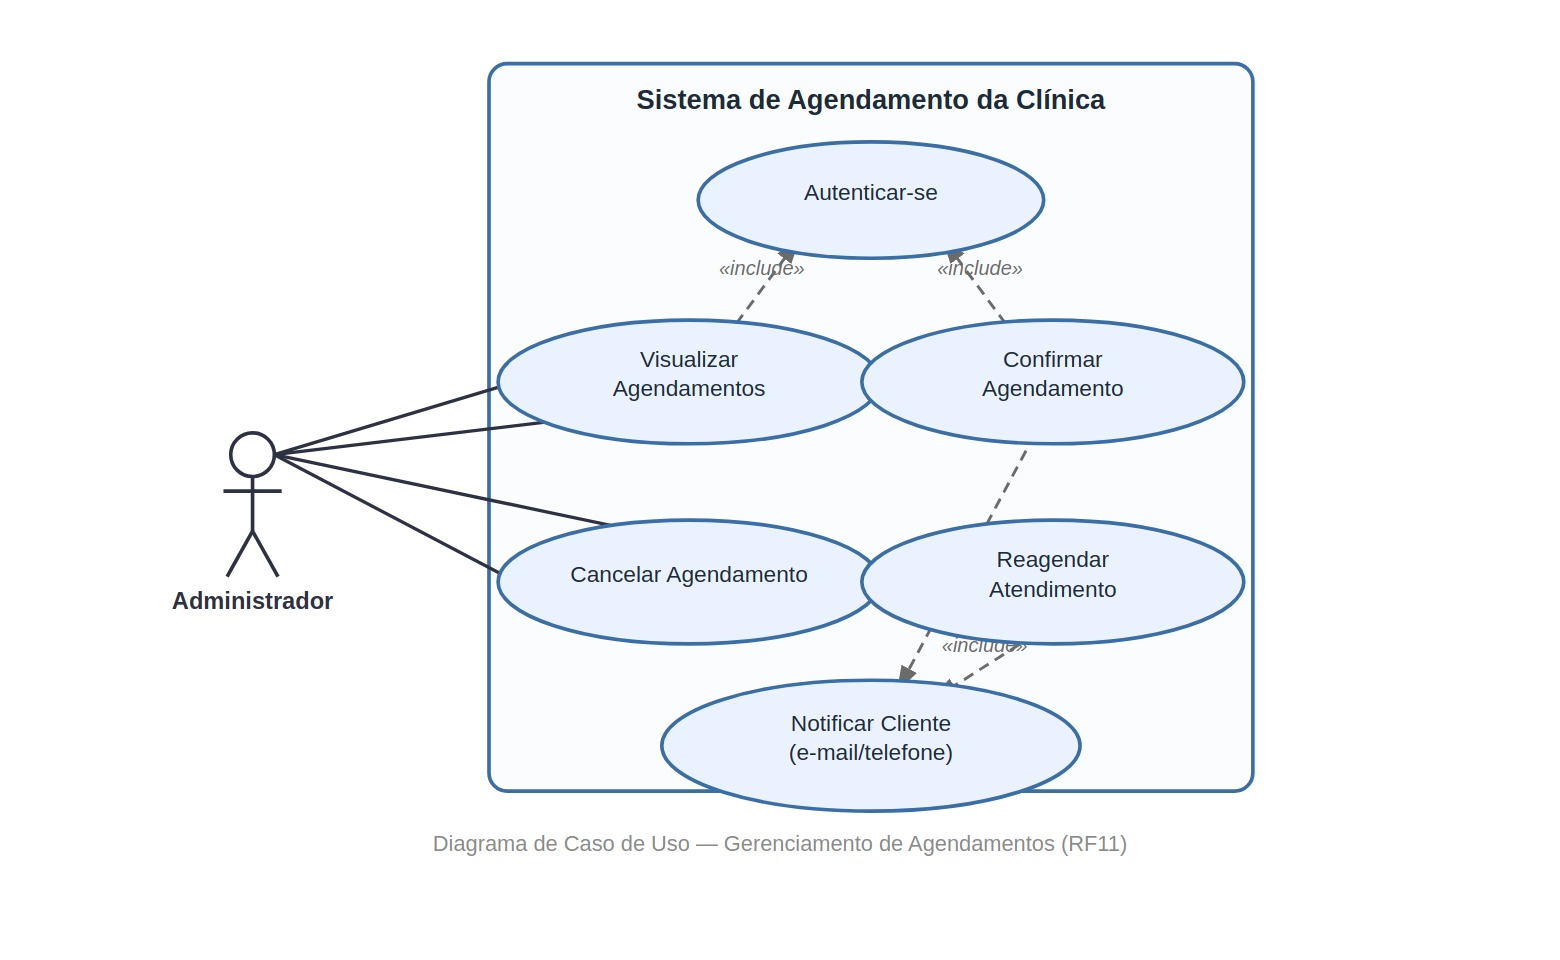
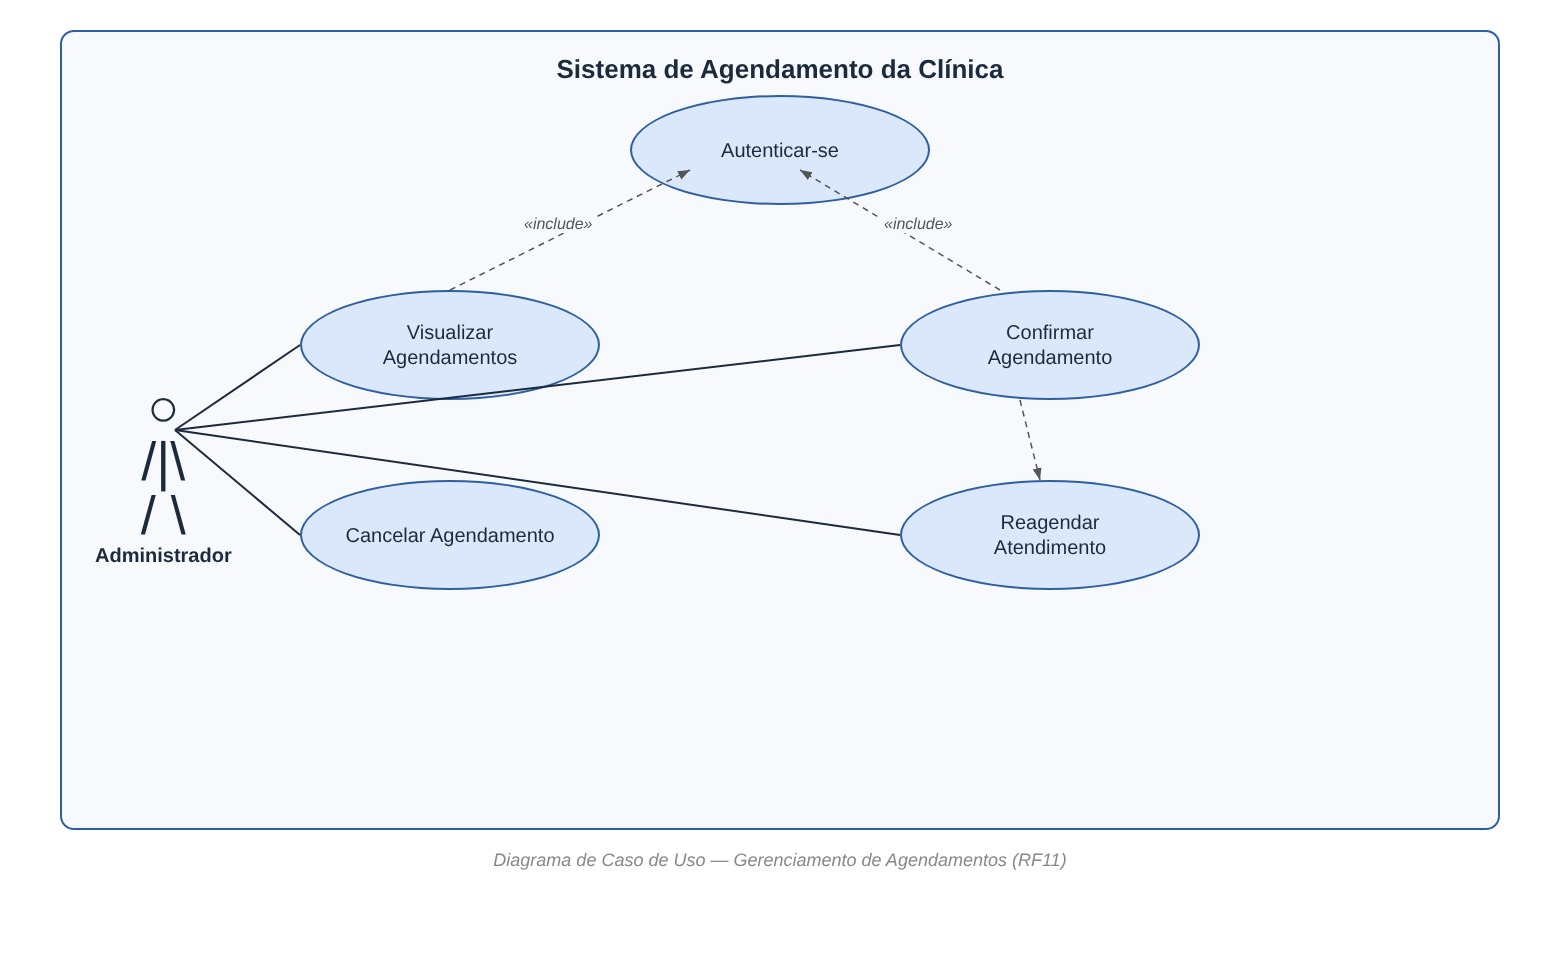
remove prontuario e notificacao do escopo

diff --git a/index.html b/index.html
@@ -197,7 +197,7 @@
   .empty-state{ padding:50px 20px; text-align:center; color:var(--muted); }
   .empty-state svg{ width:36px; height:36px; color:var(--muted-soft); margin-bottom:10px; }
 
-  /* ---------- prontuário / cadastro ---------- */
+  /* ---------- cadastro de paciente ---------- */
   .back-link{ display:inline-flex; align-items:center; gap:6px; color:var(--muted); text-decoration:none; font-size:13px; margin-bottom:14px; background:none; border:none; padding:0; }
   .back-link:hover{ color:var(--primary-dark); }
   .back-link svg{ width:15px; height:15px; }
@@ -214,12 +214,6 @@
   .field textarea{ resize:vertical; min-height:70px; }
 
   .panel-actions{ padding:16px 20px; border-top:1px solid var(--border); display:flex; justify-content:flex-end; gap:10px; }
-
-  .historico-item{ padding:14px 20px; border-bottom:1px solid var(--border); display:flex; gap:16px; }
-  .historico-item:last-child{ border-bottom:none; }
-  .historico-item .h-data{ width:96px; flex-shrink:0; font-weight:600; color:var(--primary-dark); font-size:13px; }
-  .historico-item .h-body .h-serv{ font-weight:600; }
-  .historico-item .h-body .h-obs{ color:var(--muted); font-size:13px; margin-top:2px; }
 
   .alert-box{ display:flex; gap:10px; align-items:flex-start; background:var(--amber-tint); border:1px solid #E9D9B8; color:#5C4823; padding:12px 16px; border-radius:var(--radius-s); font-size:13px; margin:0 20px 18px 20px; }
   .alert-box svg{ width:17px; height:17px; flex-shrink:0; margin-top:1px; }
@@ -332,7 +326,7 @@
         <div class="card">
           <div class="label">Pacientes cadastrados</div>
           <div class="value" id="kpi-pacientes">0</div>
-          <div class="hint">com prontuário ativo</div>
+          <div class="hint">com agendamento registrado</div>
         </div>
         <div class="card">
           <div class="label">Aguardando confirmação</div>
@@ -406,8 +400,8 @@
             <tr>
               <th>Paciente</th>
               <th>Telefone</th>
+              <th>E-mail</th>
               <th>Última visita</th>
-              <th>Alergias</th>
             </tr>
           </thead>
           <tbody id="tabela-pacientes"></tbody>
@@ -441,8 +435,6 @@
           <div class="field"><label for="cf-nasc">Data de nascimento</label><input id="cf-nasc" type="date"></div>
           <div class="field"><label for="cf-tel">Telefone</label><input id="cf-tel" type="tel" placeholder="(47) 99999-0000"></div>
           <div class="field"><label for="cf-email">E-mail</label><input id="cf-email" type="email" placeholder="nome@email.com"></div>
-          <div class="field full"><label for="cf-alergias">Alergias / restrições</label><input id="cf-alergias" type="text" placeholder="Ex.: alergia a látex, pele sensível a ácidos"></div>
-          <div class="field full"><label for="cf-obs">Observações gerais</label><textarea id="cf-obs" placeholder="Histórico relevante, preferências, contraindicações..."></textarea></div>
         </div>
       </div>
     </section>
@@ -491,18 +483,7 @@
           <div class="field"><label for="pf-nasc">Data de nascimento</label><input id="pf-nasc" type="date"></div>
           <div class="field"><label for="pf-tel">Telefone</label><input id="pf-tel" type="tel" placeholder="(47) 99999-0000"></div>
           <div class="field"><label for="pf-email">E-mail</label><input id="pf-email" type="email" placeholder="nome@email.com"></div>
-          <div class="field full"><label for="pf-alergias">Alergias / restrições</label><input id="pf-alergias" type="text" placeholder="Ex.: alergia a látex, pele sensível a ácidos"></div>
-          <div class="field full"><label for="pf-obs">Observações gerais</label><textarea id="pf-obs" placeholder="Histórico relevante, preferências, contraindicações..."></textarea></div>
         </div>
-      </div>
-
-      <div class="panel" id="painel-historico">
-        <div class="panel-head">
-          <h2>Histórico de procedimentos</h2>
-          <button class="btn btn-ghost btn-sm" id="btn-add-historico">+ Adicionar procedimento</button>
-        </div>
-        <div id="lista-historico"></div>
-        <div class="empty-state" id="historico-vazio" style="display:none;">Nenhum procedimento registrado ainda.</div>
       </div>
     </section>
 
@@ -563,39 +544,6 @@
   </div>
 </div>
 
-<!-- ===================== MODAL: NOVO ITEM DO HISTÓRICO ===================== -->
-<div class="overlay" id="overlay-historico">
-  <div class="modal">
-    <div class="modal-head">
-      <h3>Adicionar procedimento ao prontuário</h3>
-      <button class="modal-close" data-close-modal="overlay-historico">
-        <svg viewBox="0 0 24 24" fill="none" stroke="currentColor" stroke-width="2"><path d="M6 6l12 12M18 6L6 18"/></svg>
-      </button>
-    </div>
-    <div class="modal-body">
-      <div class="field">
-        <label for="hi-data">Data</label>
-        <input type="date" id="hi-data">
-      </div>
-      <div class="field">
-        <label for="hi-servico">Procedimento realizado</label>
-        <select id="hi-servico"></select>
-      </div>
-      <div class="field">
-        <label for="hi-profissional">Profissional responsável</label>
-        <select id="hi-profissional"></select>
-      </div>
-      <div class="field">
-        <label for="hi-obs">Observações clínicas</label>
-        <textarea id="hi-obs" placeholder="Reação da pele, produtos utilizados, recomendações..."></textarea>
-      </div>
-    </div>
-    <div class="modal-foot">
-      <button class="btn btn-ghost" data-close-modal="overlay-historico">Cancelar</button>
-      <button class="btn btn-primary" id="btn-confirmar-historico">Adicionar ao prontuário</button>
-    </div>
-  </div>
-</div>
 
 <!-- ===================== MODAL: NOVO/EDITAR SERVIÇO ===================== -->
 <div class="overlay" id="overlay-servico">
@@ -670,25 +618,10 @@ function addDays(base, n){
 }
 
 let pacientes = [
-  { id: nextId(), nome:"Camila Duarte", nascimento:"1994-03-12", telefone:"(47) 99911-2233", email:"camila.duarte@email.com",
-    alergias:"Pele sensível a ácidos", obs:"Prefere horários no início da manhã.",
-    historico:[
-      {data: toISODate(addDays(hoje,-30)), servico:"Limpeza de pele", profissional:"Dra. Marina Alves", obs:"Boa resposta, sem irritação."},
-      {data: toISODate(addDays(hoje,-9)),  servico:"Peeling químico", profissional:"Dra. Marina Alves", obs:"Leve vermelhidão, orientada hidratação intensa por 3 dias."}
-    ]},
-  { id: nextId(), nome:"Fernanda Ribeiro", nascimento:"1989-07-22", telefone:"(47) 98822-1010", email:"fe.ribeiro@email.com",
-    alergias:"Nenhuma conhecida", obs:"",
-    historico:[
-      {data: toISODate(addDays(hoje,-60)), servico:"Botox", profissional:"Dra. Beatriz Souza", obs:"Aplicação em região frontal, retorno em 90 dias."}
-    ]},
-  { id: nextId(), nome:"Juliana Prado", nascimento:"1997-11-02", telefone:"(47) 99700-4455", email:"ju.prado@email.com",
-    alergias:"Alergia a látex", obs:"Usar luvas de nitrila em todos os procedimentos.",
-    historico:[] },
-  { id: nextId(), nome:"Patrícia Nunes", nascimento:"1985-05-30", telefone:"(47) 99333-7788", email:"patricia.nunes@email.com",
-    alergias:"Nenhuma conhecida", obs:"",
-    historico:[
-      {data: toISODate(addDays(hoje,-14)), servico:"Drenagem linfática", profissional:"Dr. Rafael Lima", obs:"Sessão 1 de 6, boa tolerância."}
-    ]}
+  { id: nextId(), nome:"Camila Duarte", nascimento:"1994-03-12", telefone:"(47) 99911-2233", email:"camila.duarte@email.com" },
+  { id: nextId(), nome:"Fernanda Ribeiro", nascimento:"1989-07-22", telefone:"(47) 98822-1010", email:"fe.ribeiro@email.com" },
+  { id: nextId(), nome:"Juliana Prado", nascimento:"1997-11-02", telefone:"(47) 99700-4455", email:"ju.prado@email.com" },
+  { id: nextId(), nome:"Patrícia Nunes", nascimento:"1985-05-30", telefone:"(47) 99333-7788", email:"patricia.nunes@email.com" }
 ];
 
 let agendamentos = [
@@ -942,12 +875,6 @@ function popularSelects(){
   servicos.forEach(s=> selServico.appendChild(new Option(s.nome, s.nome)));
   PROFISSIONAIS.forEach(p=> selProf.appendChild(new Option(p, p)));
   HORAS.forEach(h=> selHora.appendChild(new Option(h, h)));
-
-  const selServicoHi = document.getElementById("hi-servico");
-  const selProfHi = document.getElementById("hi-profissional");
-  selServicoHi.innerHTML = ""; selProfHi.innerHTML = "";
-  servicos.forEach(s=> selServicoHi.appendChild(new Option(s.nome, s.nome)));
-  PROFISSIONAIS.forEach(p=> selProfHi.appendChild(new Option(p, p)));
 }
 
 function abrirNovoAgendamento(dataISO, hora){
@@ -1023,8 +950,9 @@ function mudarStatus(id, status){
    PACIENTES — LISTA
    ========================================================= */
 function ultimaVisita(paciente){
-  if(paciente.historico.length===0) return "—";
-  const ultima = [...paciente.historico].sort((a,b)=> b.data.localeCompare(a.data))[0];
+  const relacionados = agendamentos.filter(a=> a.pacienteId===paciente.id);
+  if(relacionados.length===0) return "—";
+  const ultima = [...relacionados].sort((a,b)=> b.data.localeCompare(a.data))[0];
   return ultima.data.split("-").reverse().join("/");
 }
 
@@ -1052,8 +980,8 @@ function renderPacientes(filtro=""){
         </div>
       </td>
       <td class="muted">${p.telefone}</td>
+      <td class="muted">${p.email}</td>
       <td class="muted">${ultimaVisita(p)}</td>
-      <td class="muted">${p.alergias && p.alergias.toLowerCase()!=="nenhuma conhecida" ? p.alergias : "—"}</td>
     `;
     tr.addEventListener("click", ()=> abrirProntuario(p.id));
     corpo.appendChild(tr);
@@ -1069,7 +997,7 @@ document.getElementById("btn-voltar-pacientes-cadastro").addEventListener("click
    CADASTRO DE PACIENTE (tela simples, só dados pessoais)
    ========================================================= */
 function abrirCadastro(){
-  ["cf-nome","cf-nasc","cf-tel","cf-email","cf-alergias","cf-obs"].forEach(f=> document.getElementById(f).value = "");
+  ["cf-nome","cf-nasc","cf-tel","cf-email"].forEach(f=> document.getElementById(f).value = "");
   irPara("cadastro");
 }
 
@@ -1083,9 +1011,6 @@ document.getElementById("btn-salvar-cadastro").addEventListener("click", ()=>{
     nascimento: document.getElementById("cf-nasc").value,
     telefone: document.getElementById("cf-tel").value.trim(),
     email: document.getElementById("cf-email").value.trim(),
-    alergias: document.getElementById("cf-alergias").value.trim(),
-    obs: document.getElementById("cf-obs").value.trim(),
-    historico: []
   };
   pacientes.push(novo);
   mostrarToast("Paciente cadastrado");
@@ -1104,30 +1029,7 @@ function abrirProntuario(id){
   document.getElementById("pf-nasc").value = p.nascimento;
   document.getElementById("pf-tel").value = p.telefone;
   document.getElementById("pf-email").value = p.email;
-  document.getElementById("pf-alergias").value = p.alergias;
-  document.getElementById("pf-obs").value = p.obs;
-  renderHistorico(p);
   irPara("prontuario");
-}
-
-function renderHistorico(p){
-  const lista = document.getElementById("lista-historico");
-  const vazio = document.getElementById("historico-vazio");
-  const itens = [...p.historico].sort((a,b)=> b.data.localeCompare(a.data));
-  lista.innerHTML = "";
-  vazio.style.display = itens.length ? "none" : "block";
-  itens.forEach(h=>{
-    const div = document.createElement("div");
-    div.className = "historico-item";
-    div.innerHTML = `
-      <div class="h-data">${h.data.split("-").reverse().join("/")}</div>
-      <div class="h-body">
-        <div class="h-serv">${h.servico} · ${h.profissional}</div>
-        ${h.obs ? `<div class="h-obs">${h.obs}</div>` : ""}
-      </div>
-    `;
-    lista.appendChild(div);
-  });
 }
 
 document.getElementById("btn-salvar-paciente").addEventListener("click", ()=>{
@@ -1139,33 +1041,11 @@ document.getElementById("btn-salvar-paciente").addEventListener("click", ()=>{
     nascimento: document.getElementById("pf-nasc").value,
     telefone: document.getElementById("pf-tel").value.trim(),
     email: document.getElementById("pf-email").value.trim(),
-    alergias: document.getElementById("pf-alergias").value.trim(),
-    obs: document.getElementById("pf-obs").value.trim(),
   };
 
   const p = pacientes.find(x=>x.id===paginaAtualPacienteId);
   Object.assign(p, dados);
   mostrarToast("Dados atualizados");
-});
-
-document.getElementById("btn-add-historico").addEventListener("click", ()=>{
-  document.getElementById("hi-data").value = hojeISO;
-  abrirModal("overlay-historico");
-});
-
-document.getElementById("btn-confirmar-historico").addEventListener("click", ()=>{
-  if(paginaAtualPacienteId === null) return;
-  const p = pacientes.find(x=>x.id===paginaAtualPacienteId);
-  p.historico.push({
-    data: document.getElementById("hi-data").value || hojeISO,
-    servico: document.getElementById("hi-servico").value,
-    profissional: document.getElementById("hi-profissional").value,
-    obs: document.getElementById("hi-obs").value.trim()
-  });
-  document.getElementById("hi-obs").value = "";
-  fecharModal("overlay-historico");
-  renderHistorico(p);
-  mostrarToast("Procedimento adicionado ao prontuário");
 });
 
 /* =========================================================

diff --git a/README.md b/README.md
@@ -66,7 +66,7 @@ O protótipo é estático (HTML/CSS/JS puro, sem dependências) e está dividido
 - **Pacientes** — lista com busca por nome/telefone
 - **Serviços** — cadastro, edição e remoção de procedimentos e preços, refletidos na lista usada pelos formulários de agendamento (RF10)
 - **Cadastro** — formulário simples para registrar um novo paciente (dados pessoais)
-- **Registro do paciente** — dados pessoais editáveis + histórico de procedimentos
+- **Registro do paciente** — dados pessoais editáveis (nome, telefone, e-mail)
 
 > Nota: o link "Área administrativa" no rodapé/menu do site público e o link "Ver site público" na barra lateral do painel conectam as duas páginas para navegação durante a avaliação. Em produção, apenas a área administrativa exigiria login.
 
